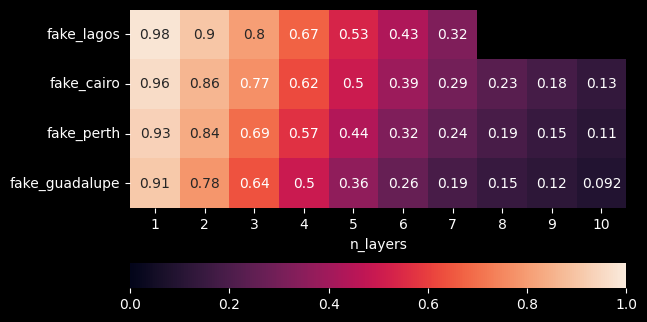
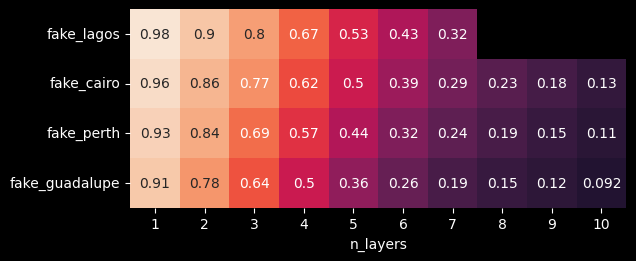
better figures

diff --git a/HamilToniQ/benchmarking.py b/HamilToniQ/benchmarking.py
@@ -198,7 +198,7 @@ class Toniq:
             data_sorted,
             annot=True,
             square=True,
-            cbar_kws={"location": "bottom"},
+            cbar=False,
             vmax=1,
             vmin=0,
         )

diff --git a/README.md b/README.md
@@ -1,6 +1,6 @@
 # HamilToniQ
 
-[TOC]
+
 
 A benchmarking toolkit designed for QAOA performance on real quantum hardware.
 
